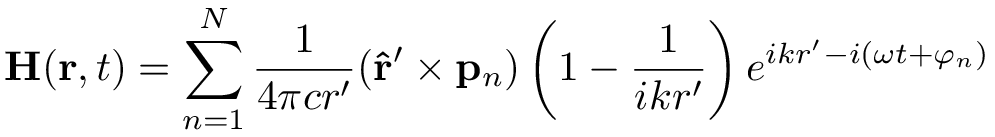
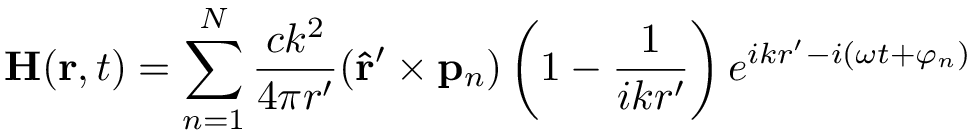
fix typo in H-field prefactor

diff --git a/dipole/cpp/field.cpp b/dipole/cpp/field.cpp
@@ -162,7 +162,7 @@ restype dipole_field_ff(boost::multi_array<double, 3>& r,
 
                 const double krinp = k*rinp/magr;
                 auto expfac = exp(complex<double>(0, (k*magr - krinp) - phases[d]));
-
+                auto efac = k*k/magr;
                 if (calc_H) {
                     // TODO this code is not tested
                     vector<double> r_cross_p(3);
@@ -170,13 +170,12 @@ restype dipole_field_ff(boost::multi_array<double, 3>& r,
                     r_cross_p[0] = r_vec[1]*p_vec[2] - r_vec[2]*p_vec[1];
                     r_cross_p[1] = -r_vec[0]*p_vec[2] + r_vec[2]*p_vec[0];
                     r_cross_p[2] = r_vec[0]*p_vec[1] - r_vec[1]*p_vec[0];
-                    expfac /= 4*M_PI*c*magr;
+                    expfac *= c/(4*M_PI);
                     for (int l=0; l < 3; l++) {
-                        res[i][j][l] += expfac * r_cross_p[l];
+                        res[i][j][l] += efac * expfac * r_cross_p[l];
                     }
                 }
                 else {
-                    auto efac = k*k/magr;
                     vector<double> r_cross_p(3);
                     vector<double> rpcp(3);
 

diff --git a/doc/equations.tex b/doc/equations.tex
@@ -24,7 +24,7 @@ r' := |\mathbf{r} - \mathbf{a}_{n}|\quad\mathbf{\hat{r}'} := \frac{\mathbf{r} - 
 
 % magnetic field
 \begin{mymath}
-\mathbf{H}(\mathbf{r}, t) = \sum_{n=1}^{N}\frac{1}{4\pi c r'} (\mathbf{\hat{r}'} \times \mathbf{p}_{n}) \left (1 - \frac{1}{ikr'}\right) e^{ikr' - i(\omega t + \varphi_{n})}
+\mathbf{H}(\mathbf{r}, t) = \sum_{n=1}^{N}\frac{ck^2}{4\pi r'} (\mathbf{\hat{r}'} \times \mathbf{p}_{n}) \left (1 - \frac{1}{ikr'}\right) e^{ikr' - i(\omega t + \varphi_{n})}
 \end{mymath}
 
 
@@ -35,7 +35,7 @@ r' := |\mathbf{r} - \mathbf{a}_{n}|\quad\mathbf{\hat{r}'} := \frac{\mathbf{r} - 
 
 % magnetic field (far-field)
 \begin{mymath}
-\mathbf{H}_\infty(\mathbf{r}, t) = \sum_{n=1}^{N}\frac{1}{4\pi c r} (\mathbf{\hat{r}} \times \mathbf{p}_{n}) e^{ik(r - \mathbf{\hat{r}}\cdot\mathbf{a}_n) - i(\omega t + \varphi_{n})}
+\mathbf{H}_\infty(\mathbf{r}, t) = \sum_{n=1}^{N}\frac{ck^2}{4\pi r} (\mathbf{\hat{r}} \times \mathbf{p}_{n}) e^{ik(r - \mathbf{\hat{r}}\cdot\mathbf{a}_n) - i(\omega t + \varphi_{n})}
 \end{mymath}
 
 

diff --git a/doc/ehgeneral.tex b/doc/ehgeneral.tex
@@ -1,0 +1,21 @@
+\documentclass[preview]{standalone}
+% \documentclass[multi={mymath},border=1pt,convert={density=300,outext=.png}]{standalone}
+\usepackage{amsmath, environ}
+\usepackage{xcolor}
+\begin{document}
+
+\pagecolor[RGB]{255,255,255} % white
+
+\begin{eqnarray*}
+  \mathbf{E}(\mathbf{r}, t) & = &
+                                  \sum_{n=1}^{N}\frac{1}{4\pi\epsilon_{0}} \Big\{\frac{k^{2}}{{r}'}(\mathbf{\hat{r}'} \times \mathbf{p}_{n}) \times \mathbf{\hat{r}'} +\\
+                            && \frac{1}{{r'}^{3}}(1-ikr') \left[ 3\mathbf{\hat{r}'}(\mathbf{\hat{r}'} \cdot \mathbf{p}_{n}) - \mathbf{p}_{n}\right] \Big\}\,e^{ikr' - i(\omega t + \varphi_{n})} \\
+  \mathbf{H}(\mathbf{r}, t) & = & \sum_{n=1}^{N}\frac{ck^{2}}{4\pi r'} (\mathbf{\hat{r}'} \times \mathbf{p}_{n}) \left (1 - \frac{1}{ikr'}\right) e^{ikr' - i(\omega t + \varphi_{n})} \\
+\end{eqnarray*}
+
+\end{document}
+%%% Local Variables:
+%%% mode: latex
+%%% TeX-master: t
+%%% compile-command: "pdflatex -shell-escape ehgeneral.tex"
+%%% End:

diff --git a/README.md b/README.md
@@ -72,7 +72,7 @@ def dipole_h_ff(np.ndarray[double_t, ndim=3] r,
 
 ## References
 
-[Notes by Alpar Sevgen](www.phys.boun.edu.tr/~sevgena/p202/docs/Electric%20dipole%20radiation.pdf)
+[Notes by Alpar Sevgen](http://www.phys.boun.edu.tr/~sevgena/p202/docs/Electric%20dipole%20radiation.pdf)
 
 ## Requirements
 * Python 3
